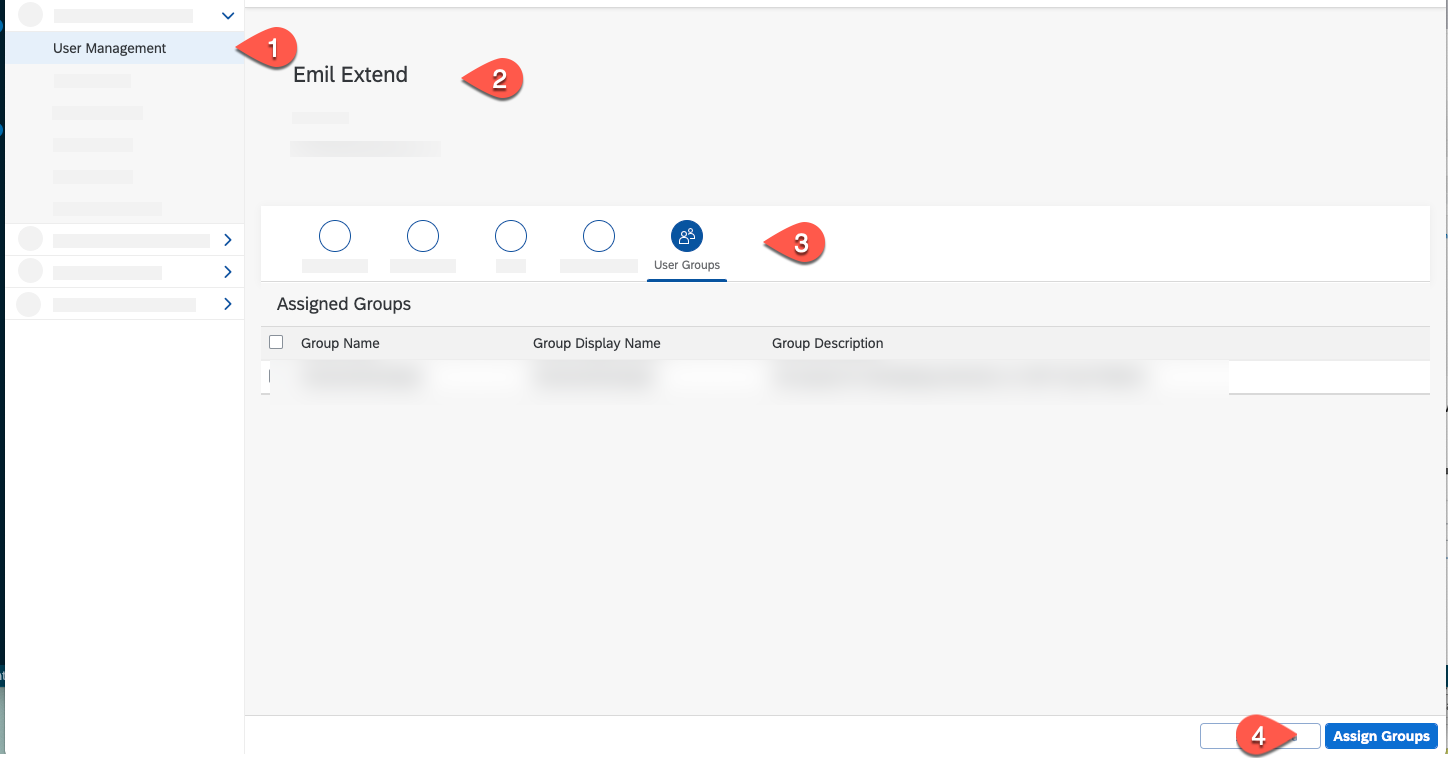
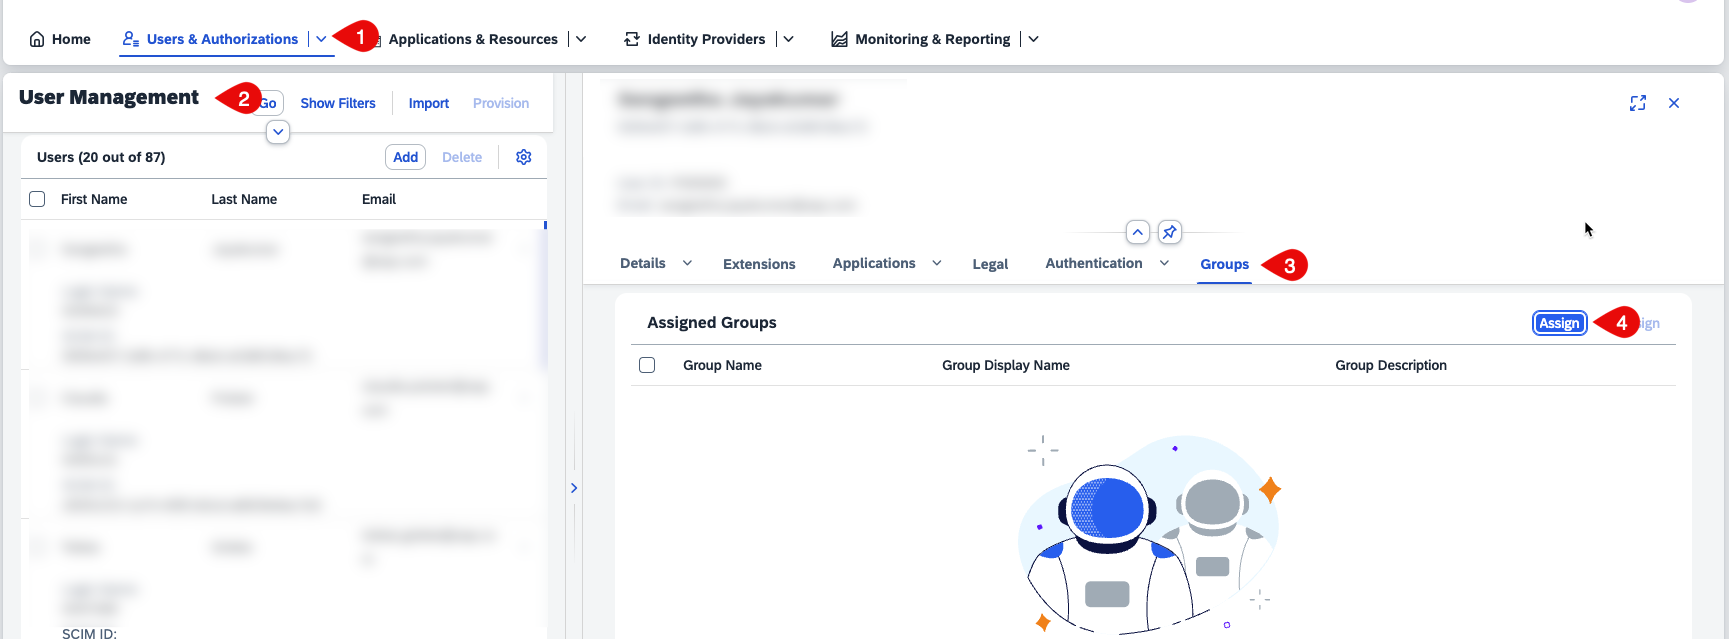
fix screenshot

diff --git a/setup/rolemapping/README.md b/setup/rolemapping/README.md
@@ -37,10 +37,10 @@ In this section, you will create some user groups in the Identity Authentication
 7.  Map the group to all user which should have the AppGyver developer role:
     * Open User Management
     * Select your user
-    * Choose **User Groups**
-    * Select **Assign Groups**
+    * Choose **Groups**
+    * Select **Assign**
 
-   ![User Groups](./images/CustIDP-assertGroup.png)
+      ![User Groups](./images/CustIDP-assertGroup.png)
 
 8. Check the **AppGyverDeveloper** group and choose **Save**.
 
